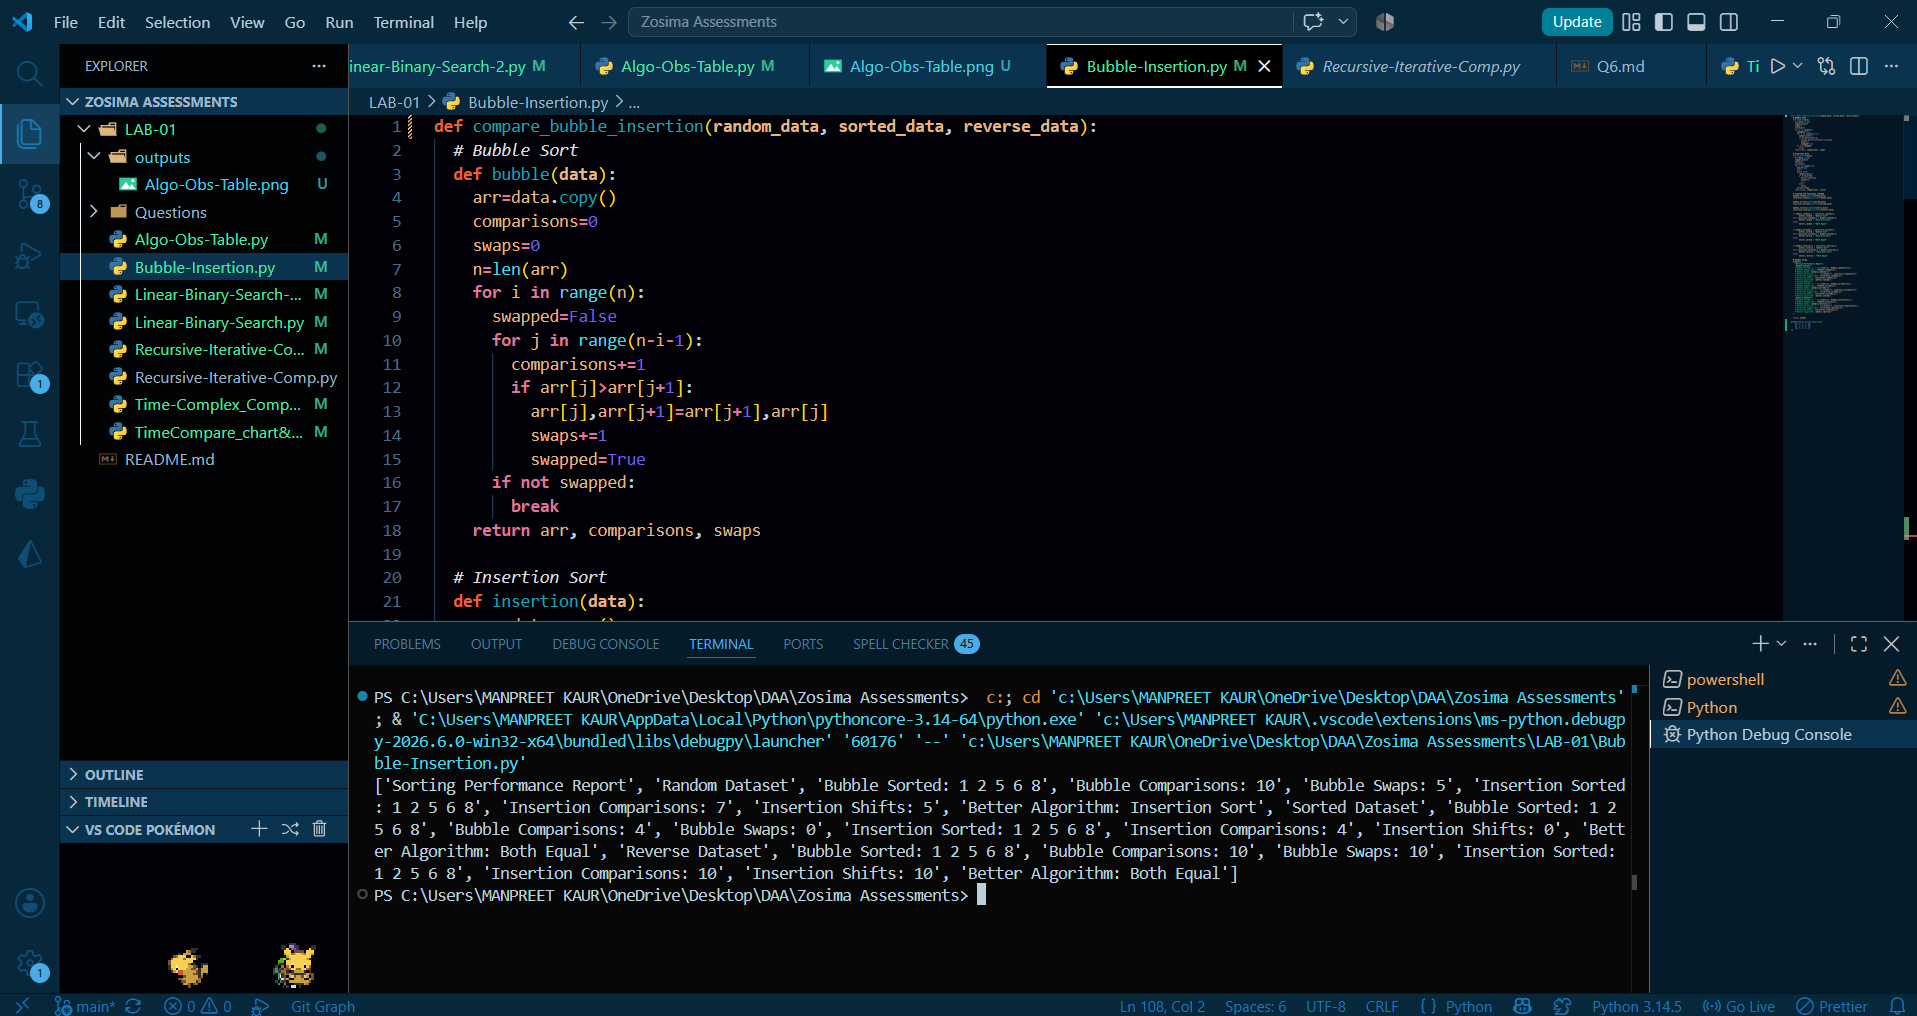
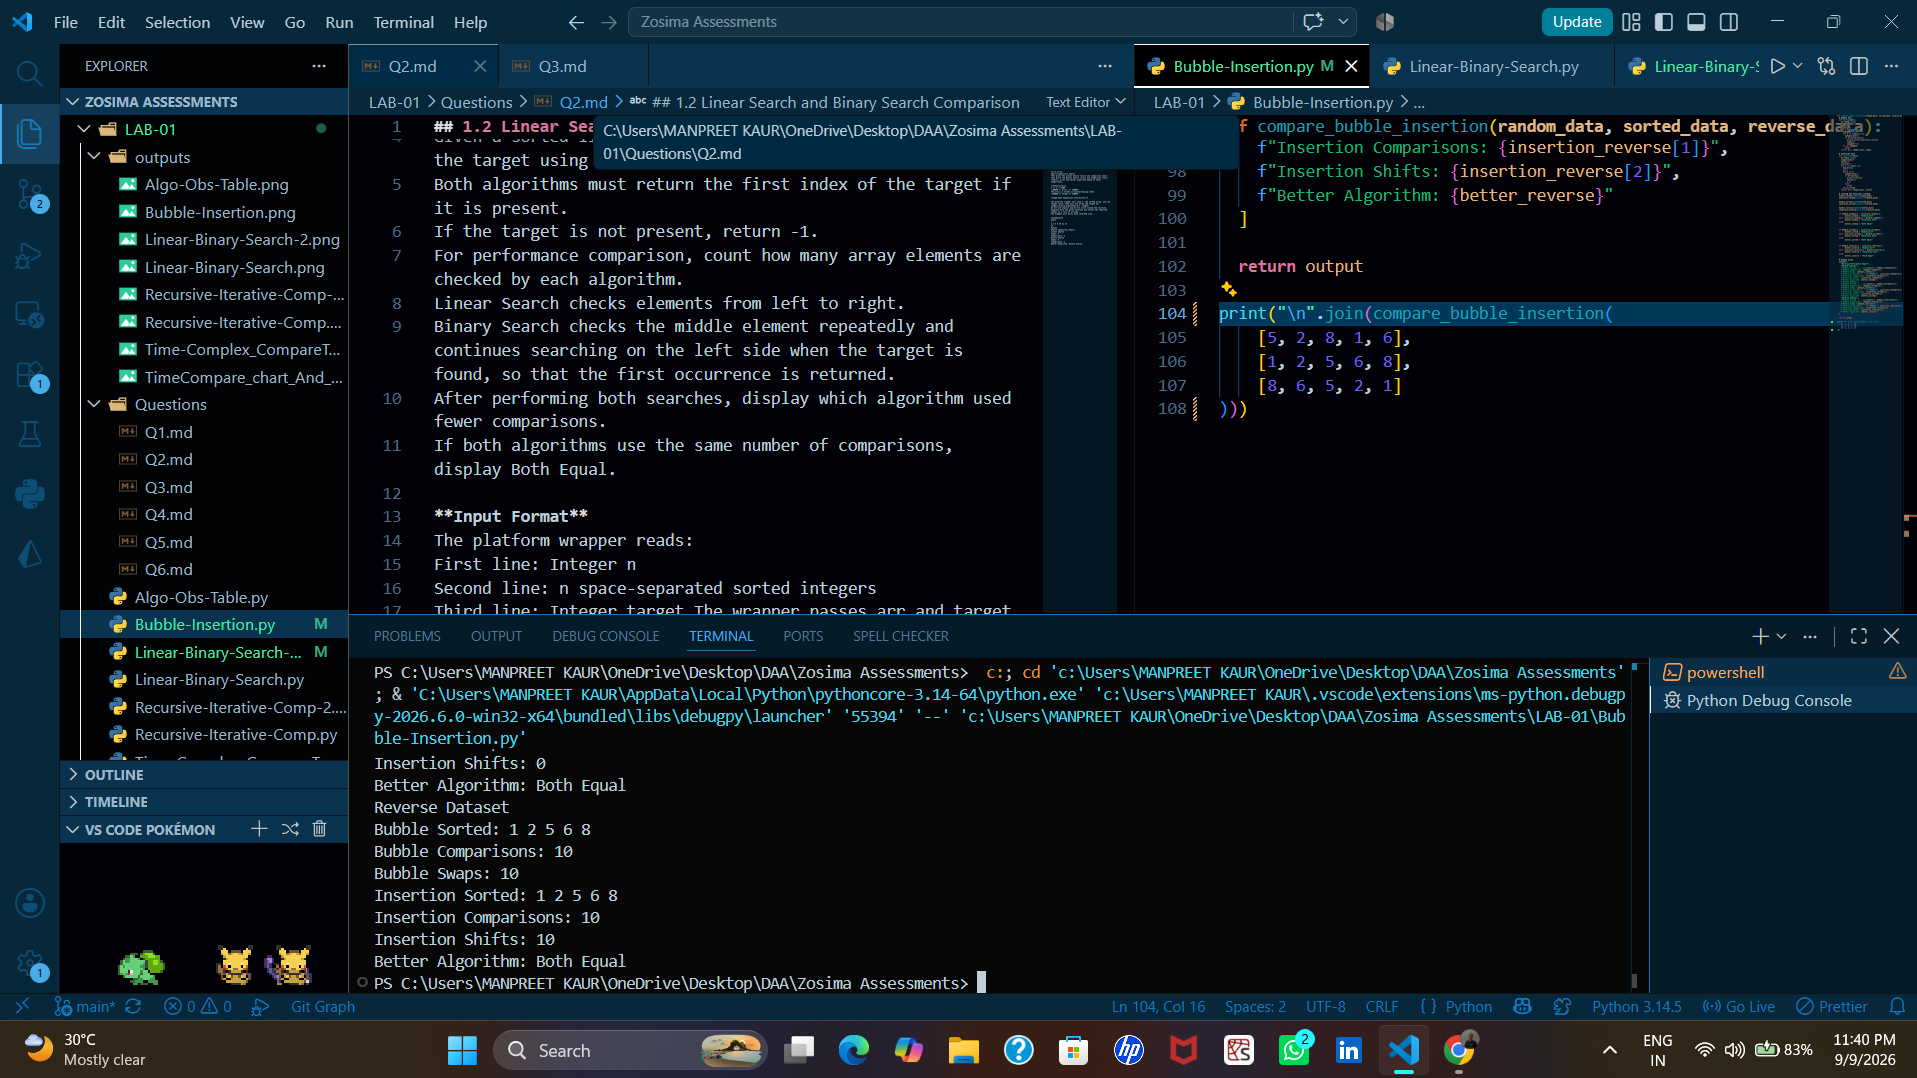
added some modified code

diff --git a/LAB-01/Bubble-Insertion.py b/LAB-01/Bubble-Insertion.py
@@ -101,8 +101,8 @@ def compare_bubble_insertion(random_data, sorted_data, reverse_data):
     
   return output
 
-print(compare_bubble_insertion(
+print("\n".join(compare_bubble_insertion(
     [5, 2, 8, 1, 6],
     [1, 2, 5, 6, 8],
     [8, 6, 5, 2, 1]
-))
+)))

diff --git a/LAB-01/Linear-Binary-Search-2.py b/LAB-01/Linear-Binary-Search-2.py
@@ -51,4 +51,4 @@ def compare_search_algorithms(arr, target):
 
     return result
 
-print(compare_search_algorithms([10, 20, 30, 40, 50], 30))
+print("\n".join(compare_search_algorithms([10, 20, 30, 40, 50], 30)))
